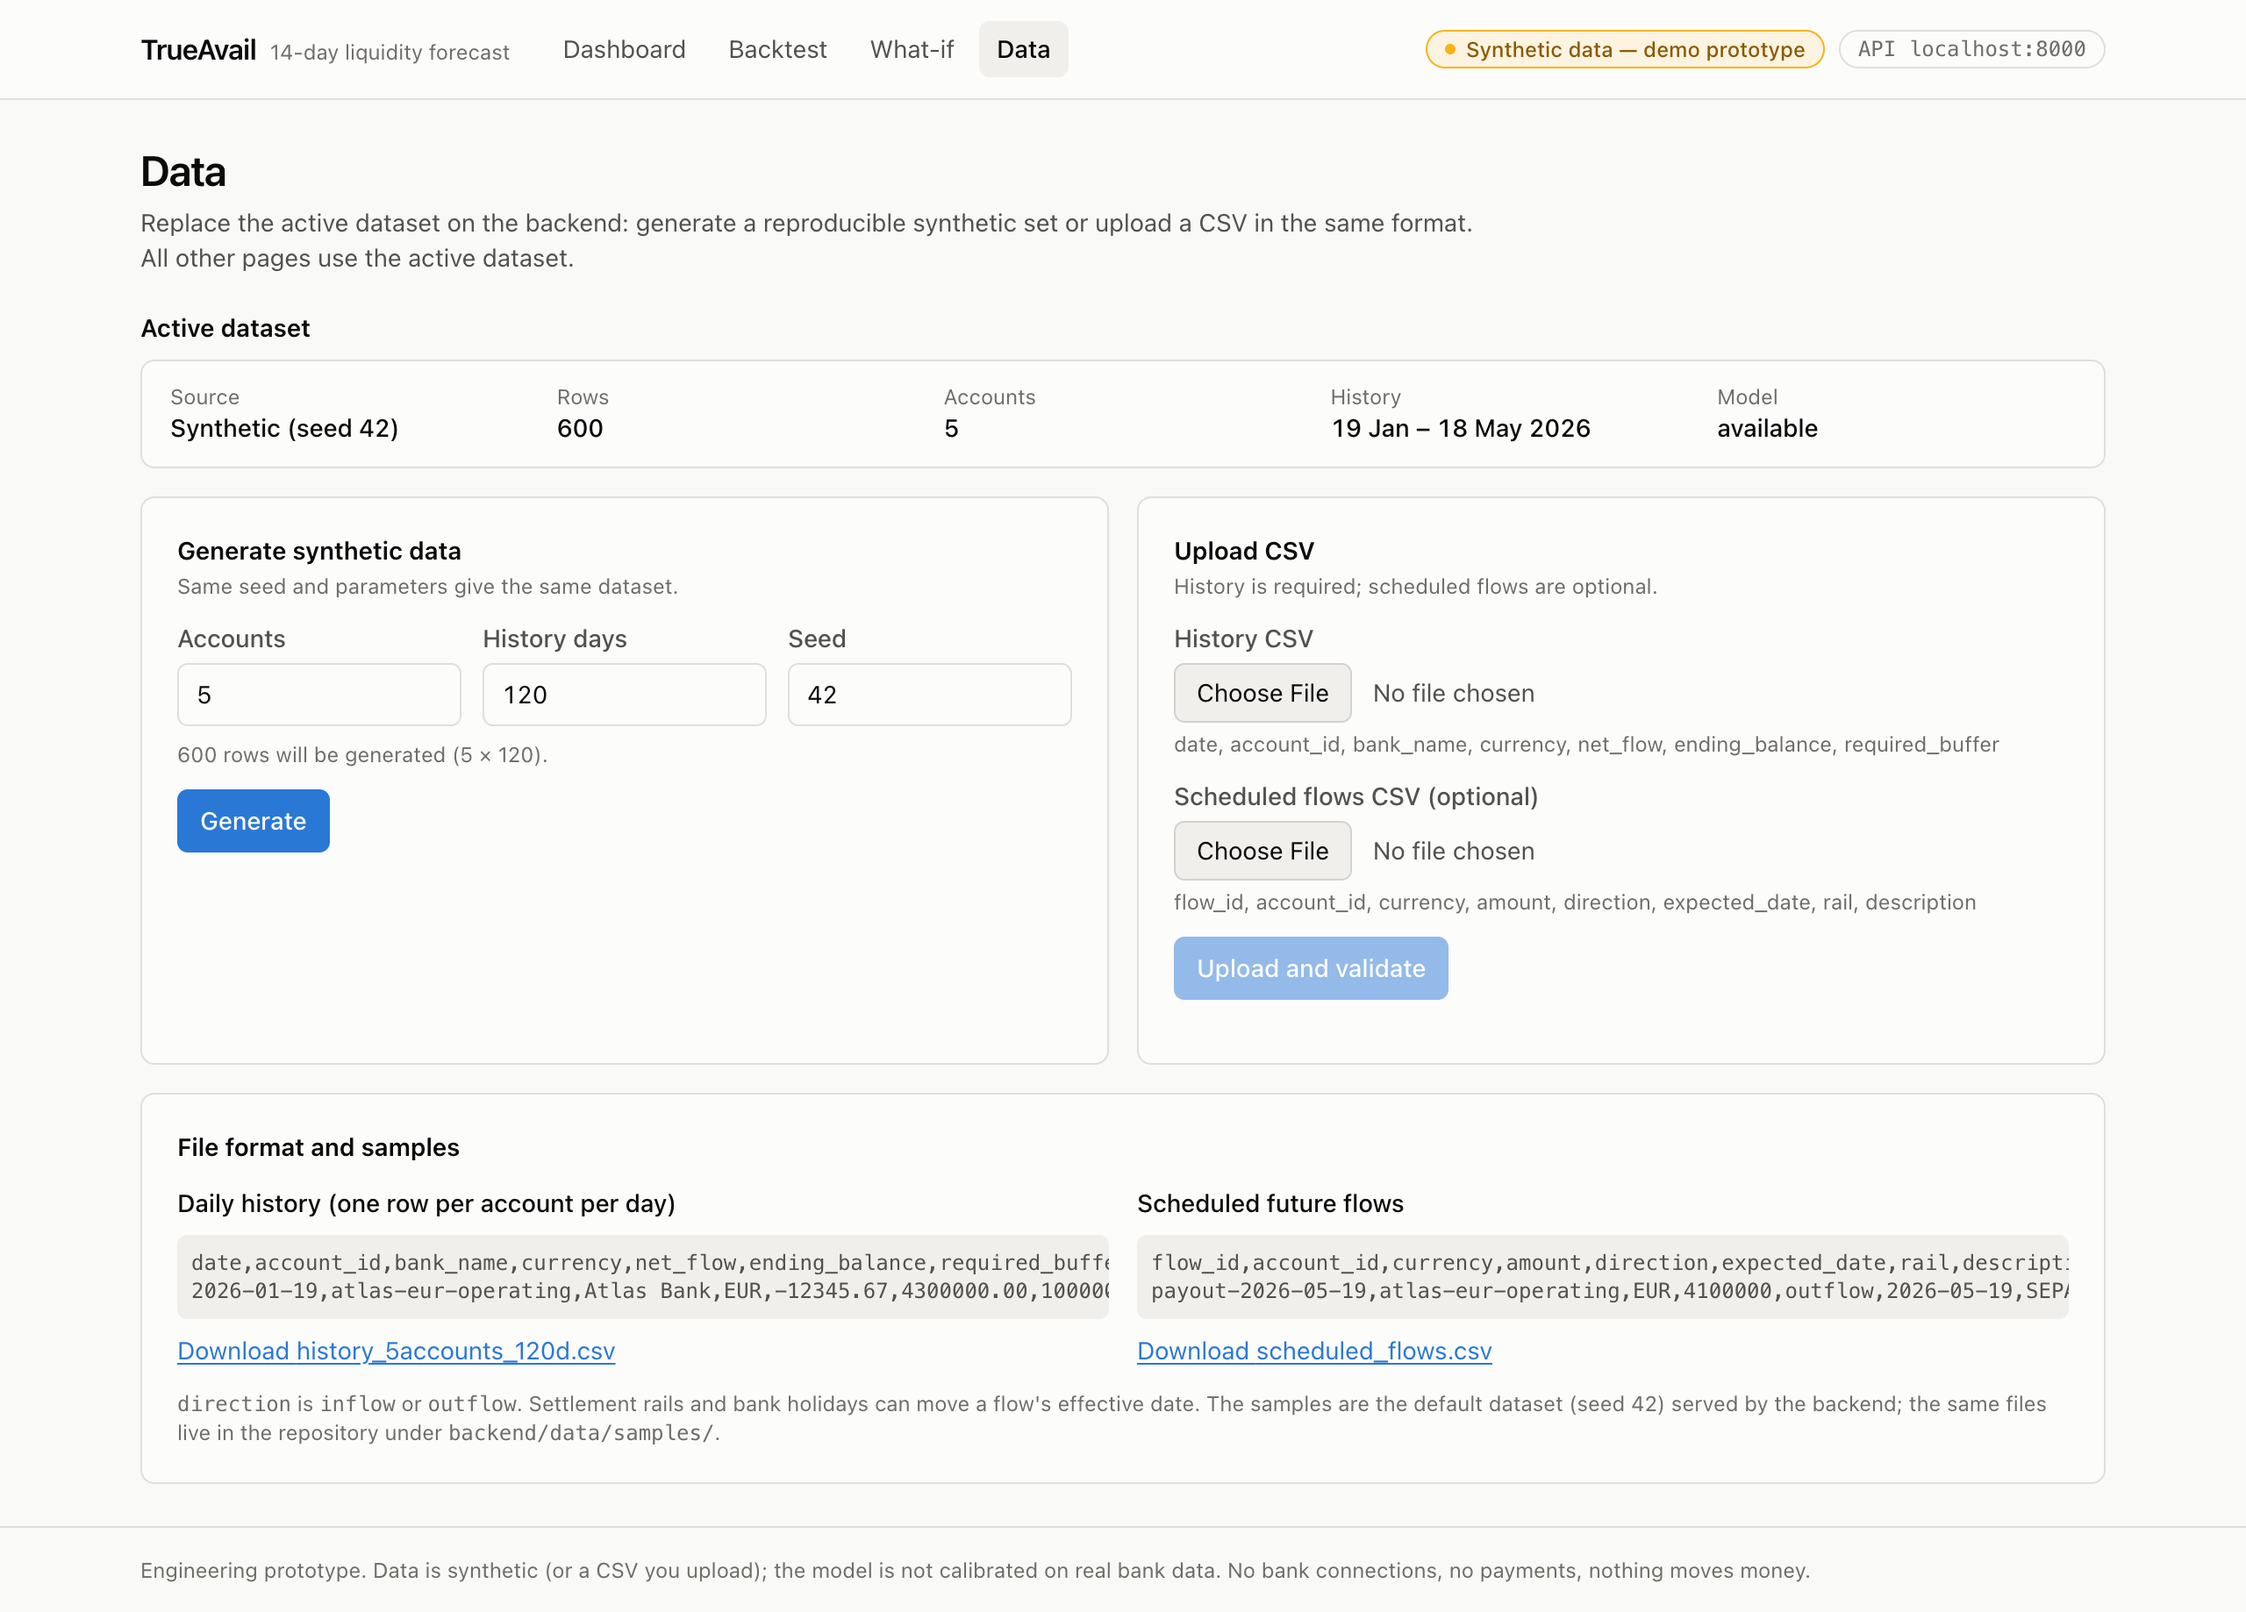
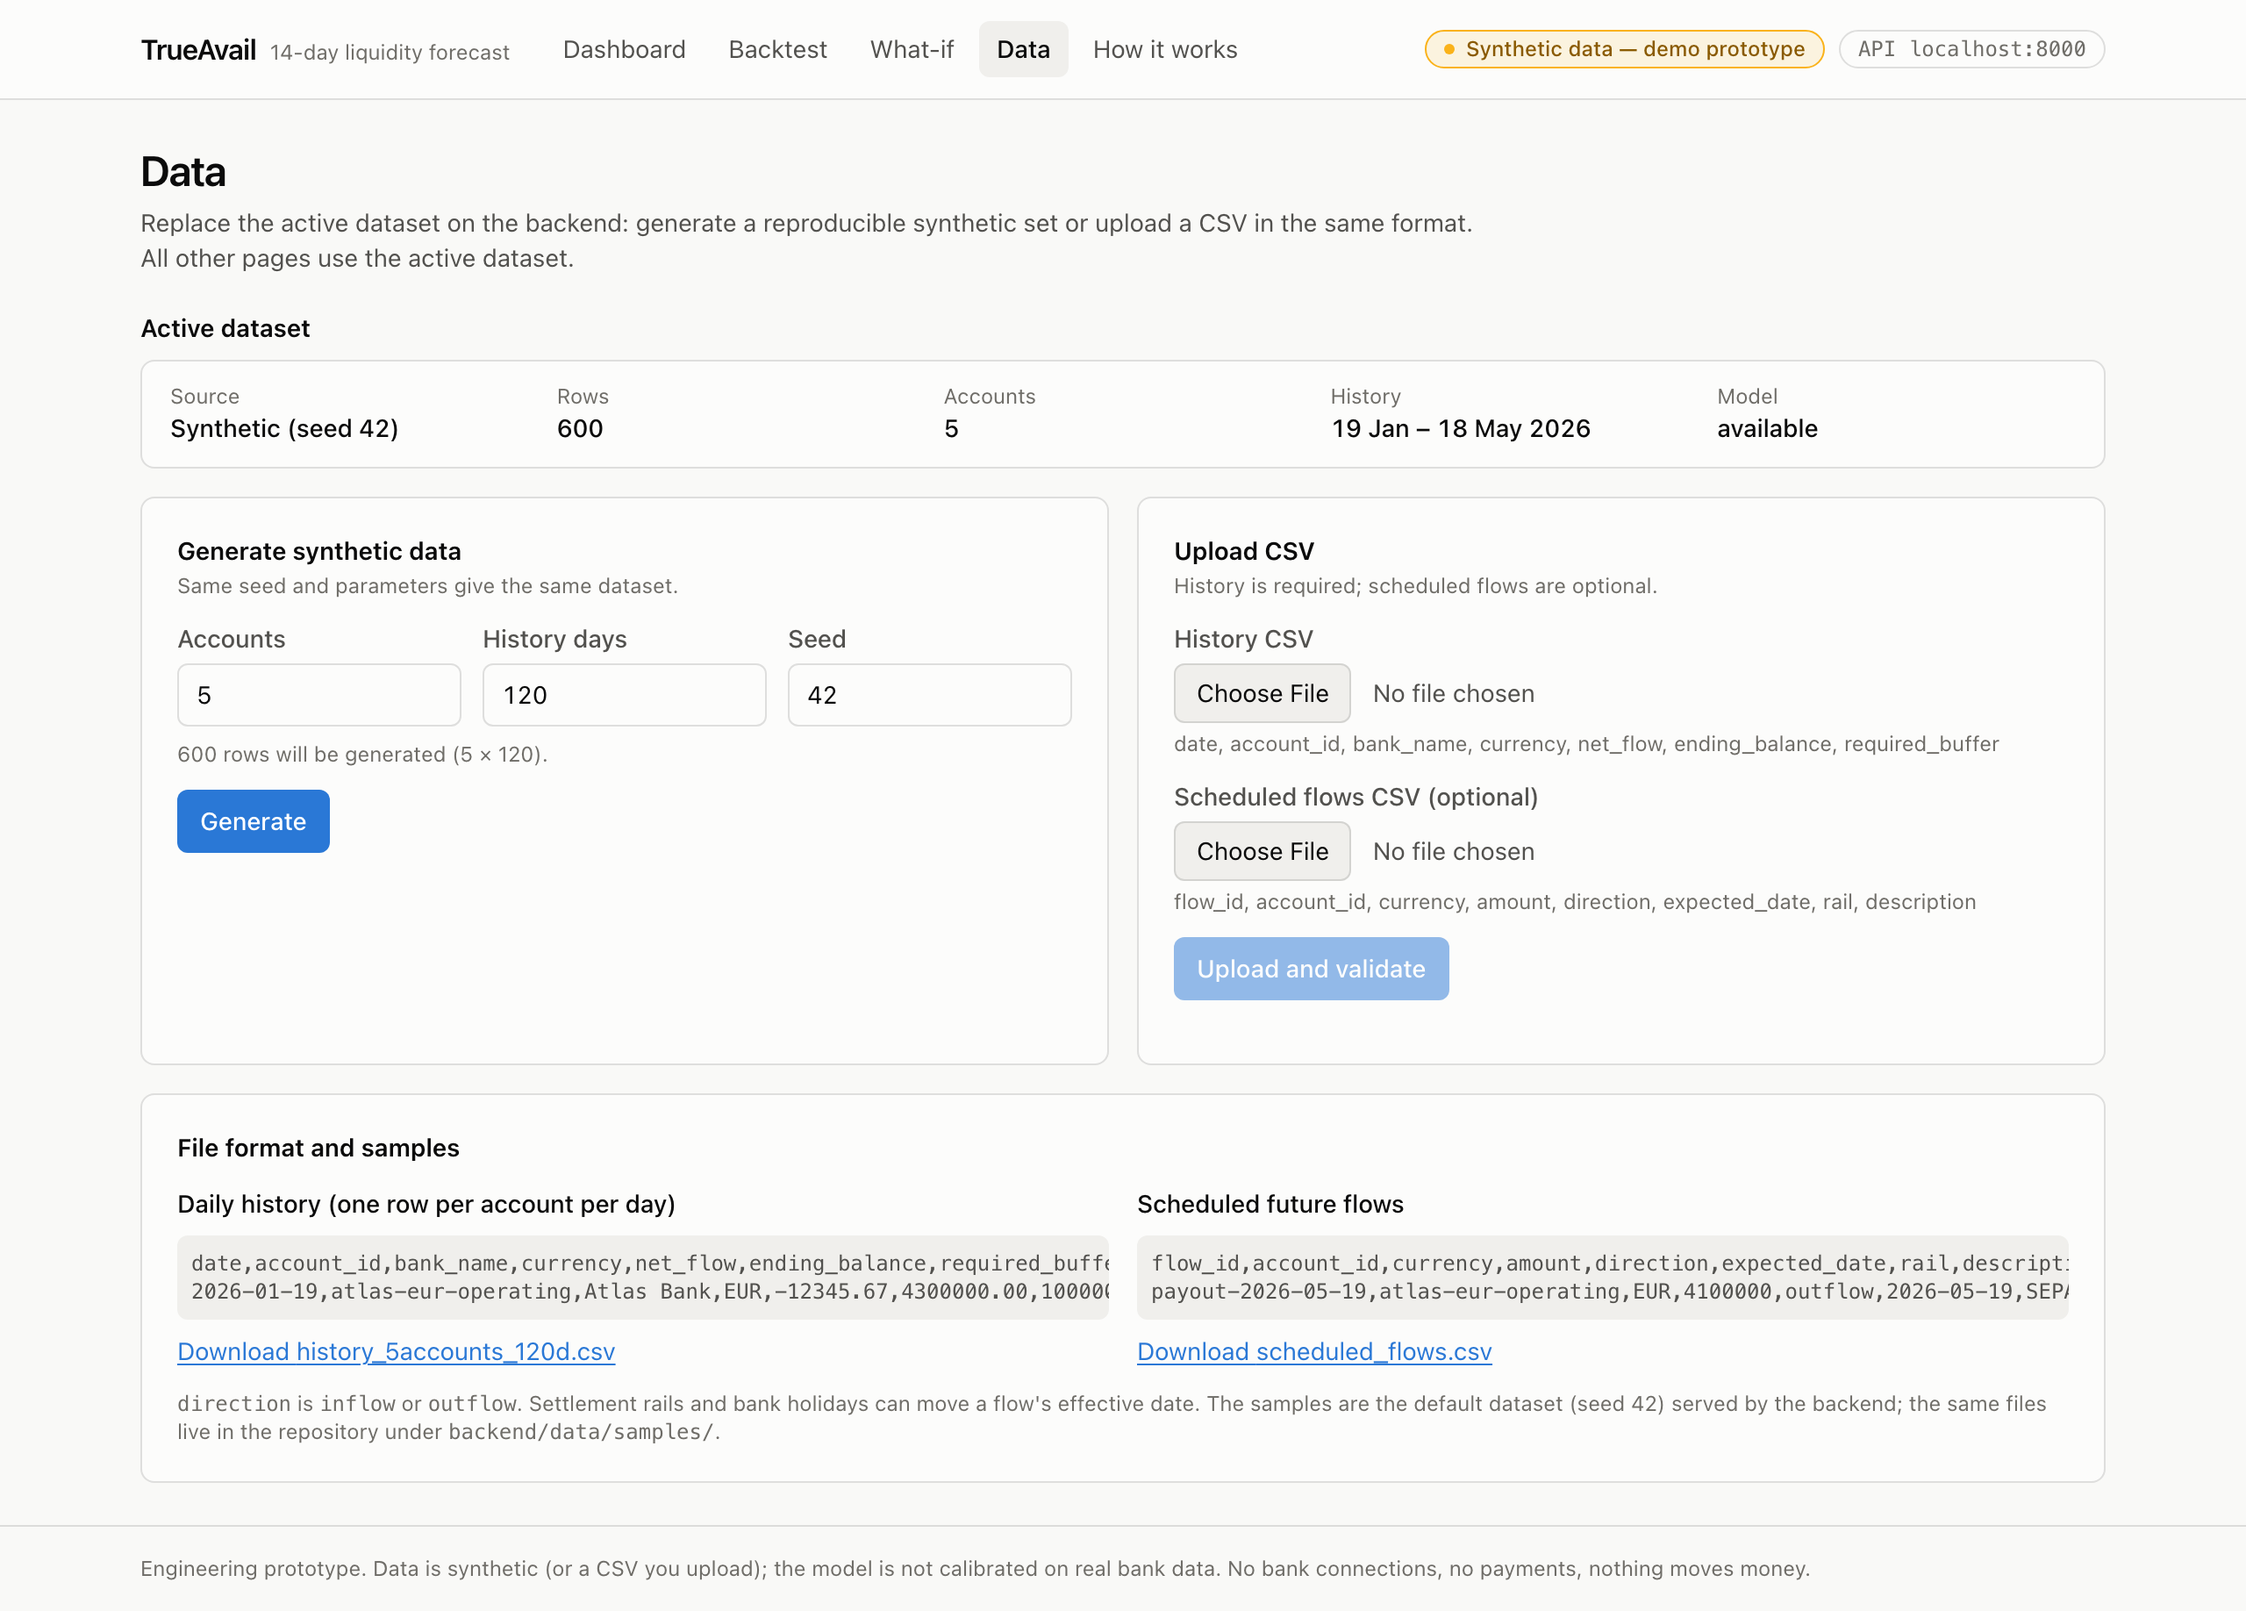
Document the live demo and refresh screenshots

diff --git a/README.md b/README.md
@@ -2,6 +2,10 @@
 
 TrueAvail forecasts the next 14 days of account balances for a company with several bank accounts and currencies, and flags **cash gaps**: days on which the pessimistic balance falls below the account's required buffer. Instead of a single number it produces a quantile corridor (P5 / P50 / P95), so the downside is visible before it happens.
 
+## Live demo
+
+**https://trueavail.vercel.app** serves results precomputed by the backend on the default synthetic dataset (regenerate them with `make demo-data`); `docker compose up` runs the full interactive pipeline with your own CSV, any what-if and new backtests. The [How it works](https://trueavail.vercel.app/how-it-works/) page (`/how-it-works`) explains the problem, the pipeline, the model and the backtest for a non-specialist reader.
+
 ![Dashboard](frontend/docs/screenshots/dashboard.png)
 
 > **Scope.** Data is synthetic (5 accounts × 120 days = 600 daily observations, reproducible seed) or a CSV you upload in the same format. The model is not calibrated on real bank data, there are no bank connections, and nothing moves money. The project started as a team entry at the NIS SynergyX Hackathon (May 2026, 1st place, FinTech & Business Solutions track); that version is preserved in tag [`hackathon-may-2026`](../../tree/hackathon-may-2026). This branch is the engineering rebuild.
@@ -18,7 +22,8 @@ TrueAvail forecasts the next 14 days of account balances for a company with seve
 | Synthetic data generator and CSV upload with row-level validation | `data.py` |
 | Datasets, scheduled flows and forecast runs stored in PostgreSQL (SQLite for tests) | `db.py` |
 | Stress scenarios and a PuLP/HiGHS rebalancing optimizer (secondary, kept from the hackathon version) | `stress.py`, `optimizer.py` |
-| Next.js dashboard: fan chart, alerts, backtest, what-if and data pages | `frontend/` |
+| Next.js dashboard: fan chart, alerts, backtest, what-if, data and how-it-works pages | `frontend/` |
+| Static demo: the backend's responses exported to JSON, served by a static build of the dashboard (`NEXT_PUBLIC_DEMO=1`) | `backend/scripts/export_demo.py`, `frontend/public/demo/`, `vercel.json` |
 
 ## Run it
 
@@ -40,7 +45,10 @@ make venv          # backend virtualenv
 make test          # backend test suite
 make backtest      # backtest on the default dataset
 make dev           # backend :8000 + frontend :3000 (SQLite)
+make demo-data     # re-export the static demo JSON into frontend/public/demo/
 ```
+
+Static demo build (what Vercel runs, see `vercel.json`): `cd frontend && npm ci && npm run build:demo` writes a static site to `frontend/out/` that reads `frontend/public/demo/*.json` instead of calling the API.
 
 ## Backtest results (default synthetic dataset)
 
@@ -113,10 +121,11 @@ Samples: [`backend/data/samples/`](backend/data/samples/).
 
 ```
 backend/    FastAPI app, ML pipeline, tests (pytest), Dockerfile
-frontend/   Next.js + TypeScript + Tailwind + recharts, Dockerfile
+frontend/   Next.js + TypeScript + Tailwind + recharts, Dockerfile; public/demo/ = precomputed demo JSON
 docs/       SPEC.md
 docker-compose.yml   PostgreSQL 16 + backend + frontend
-.github/workflows/   CI: backend tests, frontend lint/type-check/build, docker build
+vercel.json          static demo build for Vercel (frontend/out)
+.github/workflows/   CI: backend tests, frontend lint/type-check/build + static demo build, docker build
 ```
 
 ## Stack

diff --git a/frontend/README.md b/frontend/README.md
@@ -2,7 +2,7 @@
 
 Next.js (App Router, TypeScript, Tailwind, recharts) UI for the TrueAvail 14-day liquidity forecasting prototype. API contract: `../docs/SPEC.md`.
 
-Pages: `/` dashboard, `/backtest`, `/what-if`, `/data`.
+Pages: `/` dashboard, `/backtest`, `/what-if`, `/data`, `/how-it-works` (plain-language explainer; its numbers are read at build time from `public/demo/*.json`).
 
 ## Run
 
@@ -19,6 +19,13 @@ Without a backend, run against bundled fixtures:
 npm run dev:fixtures   # same as NEXT_PUBLIC_USE_FIXTURES=1 npm run dev
 ```
 
+Static demo (the build deployed to Vercel, no backend needed):
+
+```bash
+npm run build:demo     # NEXT_PUBLIC_DEMO=1 next build -> static export in out/
+npx serve out          # or any static file server
+```
+
 Docker:
 
 ```bash
@@ -28,12 +35,13 @@ docker run -p 3000:3000 trueavail-frontend
 
 ## Environment variables
 
-Both are read at build time (inlined into the client bundle).
+All are read at build time (inlined into the client bundle).
 
 | Variable | Default | Meaning |
 |---|---|---|
 | `NEXT_PUBLIC_API_URL` | `http://localhost:8000` | Backend base URL. The browser calls it directly, so it must be reachable from the user's machine. |
 | `NEXT_PUBLIC_USE_FIXTURES` | unset | `1` serves typed fixtures from `src/lib/fixtures/` instead of calling the API. The header shows "Fixtures mode". |
+| `NEXT_PUBLIC_DEMO` | unset | `1` (`npm run build:demo`): static export to `out/` with `trailingSlash`; the client reads backend responses precomputed by `backend/scripts/export_demo.py` (`make demo-data`) from `public/demo/`. Generate/upload and re-run buttons are hidden, what-if switches between precomputed scenarios, and the header shows a one-line demo banner. Takes precedence over fixtures. |
 
 In live mode a failed request shows an error banner with the URL tried and a Retry button; there is no fallback to fixture data.
 
@@ -44,5 +52,5 @@ In live mode a failed request shows an error banner with the URL tried and a Ret
 - `src/lib/types.ts` – response and request types from the SPEC.
 - `src/lib/fixtures/` – deterministic sample responses (5 accounts, 120-day history, 14-day P5/P50/P95, alerts, backtest, what-if).
 - `src/components/` – nav, fan chart, alerts list, model card, error banner, UI primitives.
-- Sample CSVs are not bundled: the `/data` page links to the backend (`GET /api/data/samples/{name}`).
-- `docs/screenshots/` – full-page screenshots of the four pages against the live docker-compose stack (PostgreSQL-backed backend, default seed-42 dataset).
+- `public/demo/` – precomputed backend output for the static demo (health, accounts, history, scheduled flows, forecast, alerts, backtest, optimizer, stress, six what-if scenarios, sample CSVs, `manifest.json`). In live mode the `/data` page links to the backend's sample CSVs (`GET /api/data/samples/{name}`); in demo mode to the copies here.
+- `docs/screenshots/` – full-page screenshots against the live docker-compose stack (PostgreSQL-backed backend, default seed-42 dataset).

diff --git a/docs/SPEC.md b/docs/SPEC.md
@@ -99,6 +99,9 @@ Pages:
 - `/backtest`: run backtest, table per horizon, chart of pinball P50 vs baseline by horizon, coverage line vs 0.9 target, plain-language summary.
 - `/what-if`: list of scheduled flows with editable date shift / amount / remove, "Run scenario" → before/after alerts and overlaid fan charts.
 - `/data`: generate synthetic (accounts, days, seed) or upload CSV; shows validation warnings and row-level 422 errors; links to the sample files served by `GET /api/data/samples/{name}`.
+- `/how-it-works`: plain-language explainer (problem, pipeline diagram, model, backtest numbers, limitations).
+
+Static demo (`NEXT_PUBLIC_DEMO=1`, `npm run build:demo`, deployed to Vercel via `vercel.json`): a static export that reads responses the real backend precomputed into `frontend/public/demo/` (`backend/scripts/export_demo.py`, `make demo-data`). It is precomputed output, not a fallback: live-mode pages never fetch it (only `/how-it-works` embeds its numbers at build time). Generate/upload/re-run are hidden; what-if offers the precomputed scenarios, each built only from supported adjustments.
 
 Rules: `NEXT_PUBLIC_API_URL` (default `http://localhost:8000`). If the backend is unreachable show a clear error banner; no fake data fallback. Every screen states "Synthetic data — demo". English UI only. Light/dark via `prefers-color-scheme`. recharts for charts.
 
